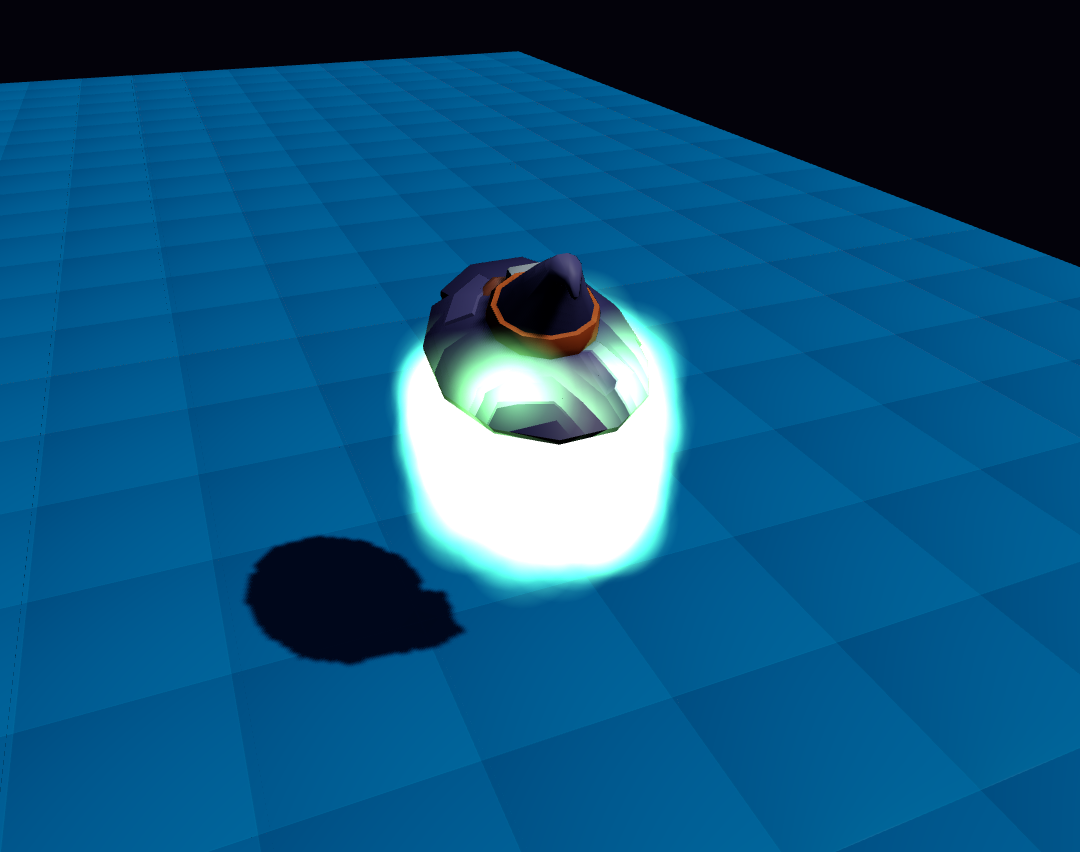
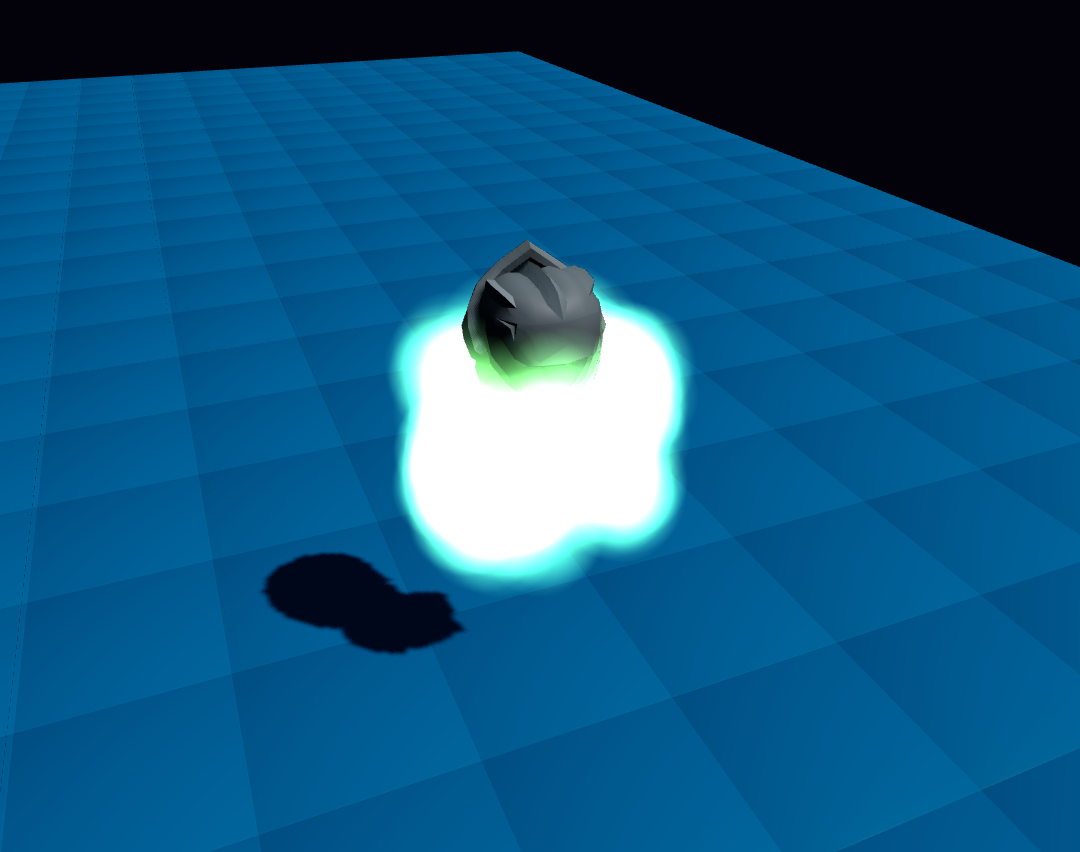
fix(debug): mount ObjectInstances so map cubes actually render
The Scene component never mounted <ObjectInstances store={store}>,
so `state.worldObjects.instances` — which the map picker correctly
populates on every map switch — was rendered by NOTHING. Only the
Floor + Players + ProximityGlow were on screen, regardless of
which map was selected. The data-side regression test happily
passed (store counts changed from 625 to 58) but visually you only
saw the player teleport against an unchanged backdrop.

Add `<ObjectInstances store={store} />` next to `<Floor>` in
Scene.tsx. ObjectInstances subscribes to `state.worldObjects` via
`store.subscribe` and rebuilds one InstancedMesh per cube kind on
every snapshot change, which is exactly what the picker triggers.

Updates docs/debug-map-switch/ with the post-fix screenshots so
the difference is visible — the 25×25 blue platform actually
appears, and switching to long_corridor reveals its smaller cube
cluster.

Changed region(s): [[0.2139, 0.2746, 0.6417, 0.7934], [0.3972, 0.7324, 0.4278, 0.7629]]

diff --git a/packages/world/src/renderer/Scene.tsx b/packages/world/src/renderer/Scene.tsx
@@ -18,6 +18,7 @@ import { Floor } from './Floor.tsx';
 import { Players } from './Players.tsx';
 import { CameraRig } from './CameraRig.tsx';
 import { SceneFrame } from './SceneFrame.tsx';
+import { ObjectInstances } from './ObjectInstances.tsx';
 import { ProximityGlow } from './ProximityGlow.tsx';
 import { CUBE_SIZE, type CameraMode } from './config.ts';
 import type { ViewConfig } from './viewConfig.ts';
@@ -300,6 +301,16 @@ export function Scene(props: SceneProps) {
         />
 
         <Floor gridSize={world.gridSize} stoneLayers={world.stoneLayers} />
+
+        {/* Per-map cubes. Subscribes to `state.worldObjects` — the
+            picker pushes a fresh WorldObjects snapshot via
+            `actions.setWorldObjects(compileMap(...))` on every map
+            switch, and this re-renders one InstancedMesh per cube
+            kind in response. Without this mount nothing visualises
+            the picker's data, which the user noticed: the player
+            teleported between spawns but the surrounding cube field
+            stayed identical because there was no cube field at all. */}
+        <ObjectInstances store={store} />
 
         <Players
           store={store}

diff --git a/docs/debug-map-switch/README.md b/docs/debug-map-switch/README.md
@@ -1,26 +1,15 @@
 # Debug map-switch screenshots
 
-Captured by Playwright via `gl.readPixels` against the actual rendered
-WebGL framebuffer (Playwright's `page.screenshot` hangs against Debug's
-GPU stalls). Three frames in sequence:
+Captured via Playwright + `gl.readPixels` against the actual WebGL
+framebuffer in `tests/playwright/debug-mode.spec.ts` (the "Map switch
+in Debug actually changes the rendered world" test). Two frames:
 
-1. `1-default.png` — boot loads `default` (platform). Store reports
-   625 cube instances at voxel bbox (0..24, 0..24, 0..24). Local
-   player at (12, 2, 12) — centre of platform.
-2. `2-long_corridor.png` — picker switched to `long_corridor`.
-   Store reports 58 instances at voxel bbox (-4..6, …, -2..1).
-   Local player teleported to (-7.15, 2, -0.88).
-3. `3-default-again.png` — picker switched back to `default`. Store
-   reports 625 instances; player back at (12, 2, 12).
+1. `1-default.png` — `default` map loaded. Shows the 25×25 blue
+   platform around the player at (12, 2, 12).
+2. `2-long_corridor.png` — switched to `long_corridor`. Shows the
+   smaller corridor cube cluster at the new spawn (-7, 2, -1).
 
-The three frames have three different SHA-256 hashes; pixel hash
-fingerprints differ (`2905769e…`, `a87a773f…`, `bb271bd7…`).
-
-Reproduce with:
-
-```bash
-pnpm test:e2e tests/playwright/debug-mode.spec.ts
-```
-
-The "Map switch in Debug actually changes the rendered world" test
-asserts both the store delta AND the pixel-hash delta.
+These were captured after the `ObjectInstances` mount fix — Scene
+wasn't actually rendering the per-map cubes at all before, which is
+why earlier screenshots only showed the player teleporting against
+an unchanged backdrop.
